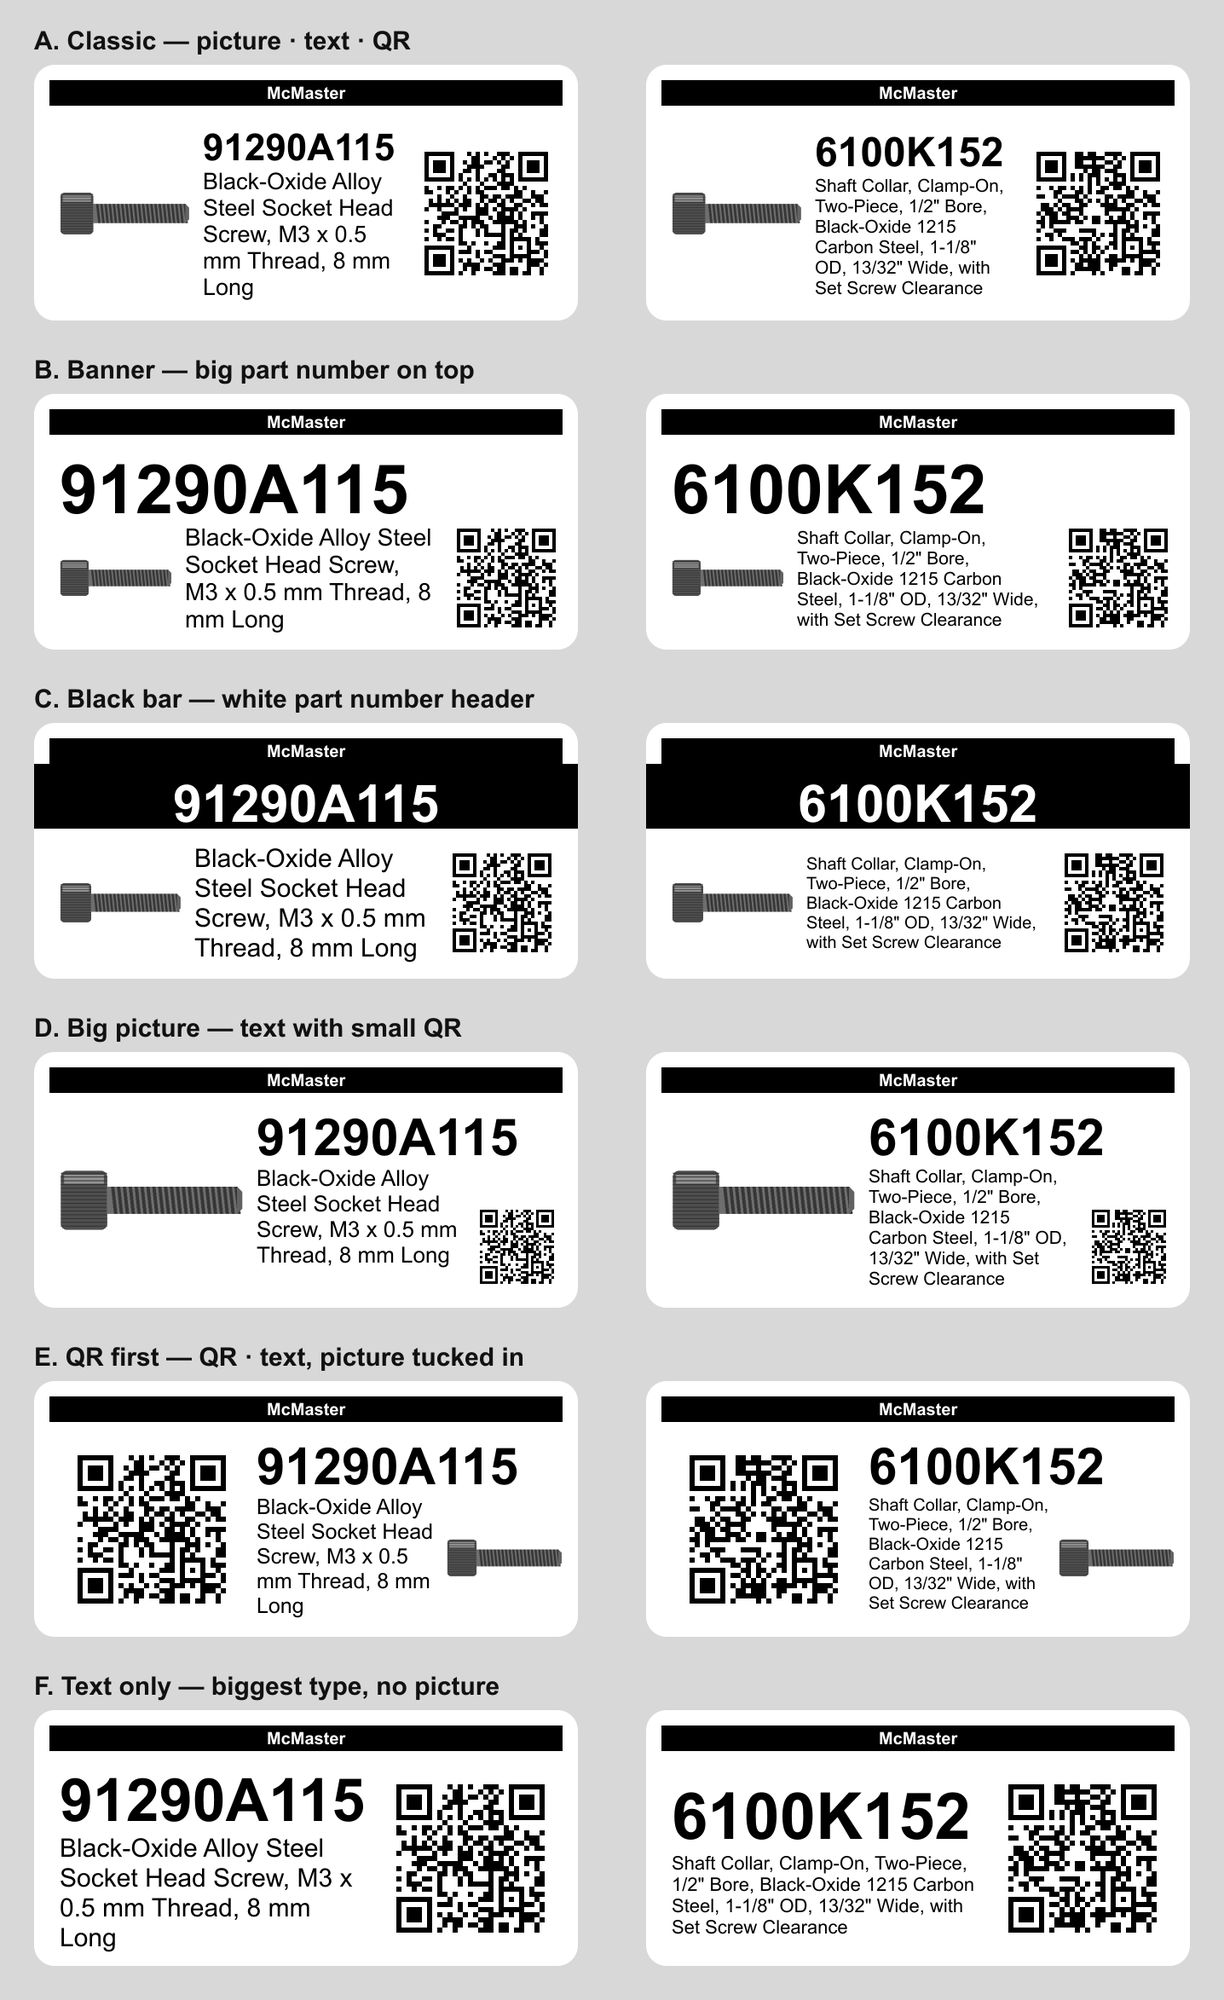
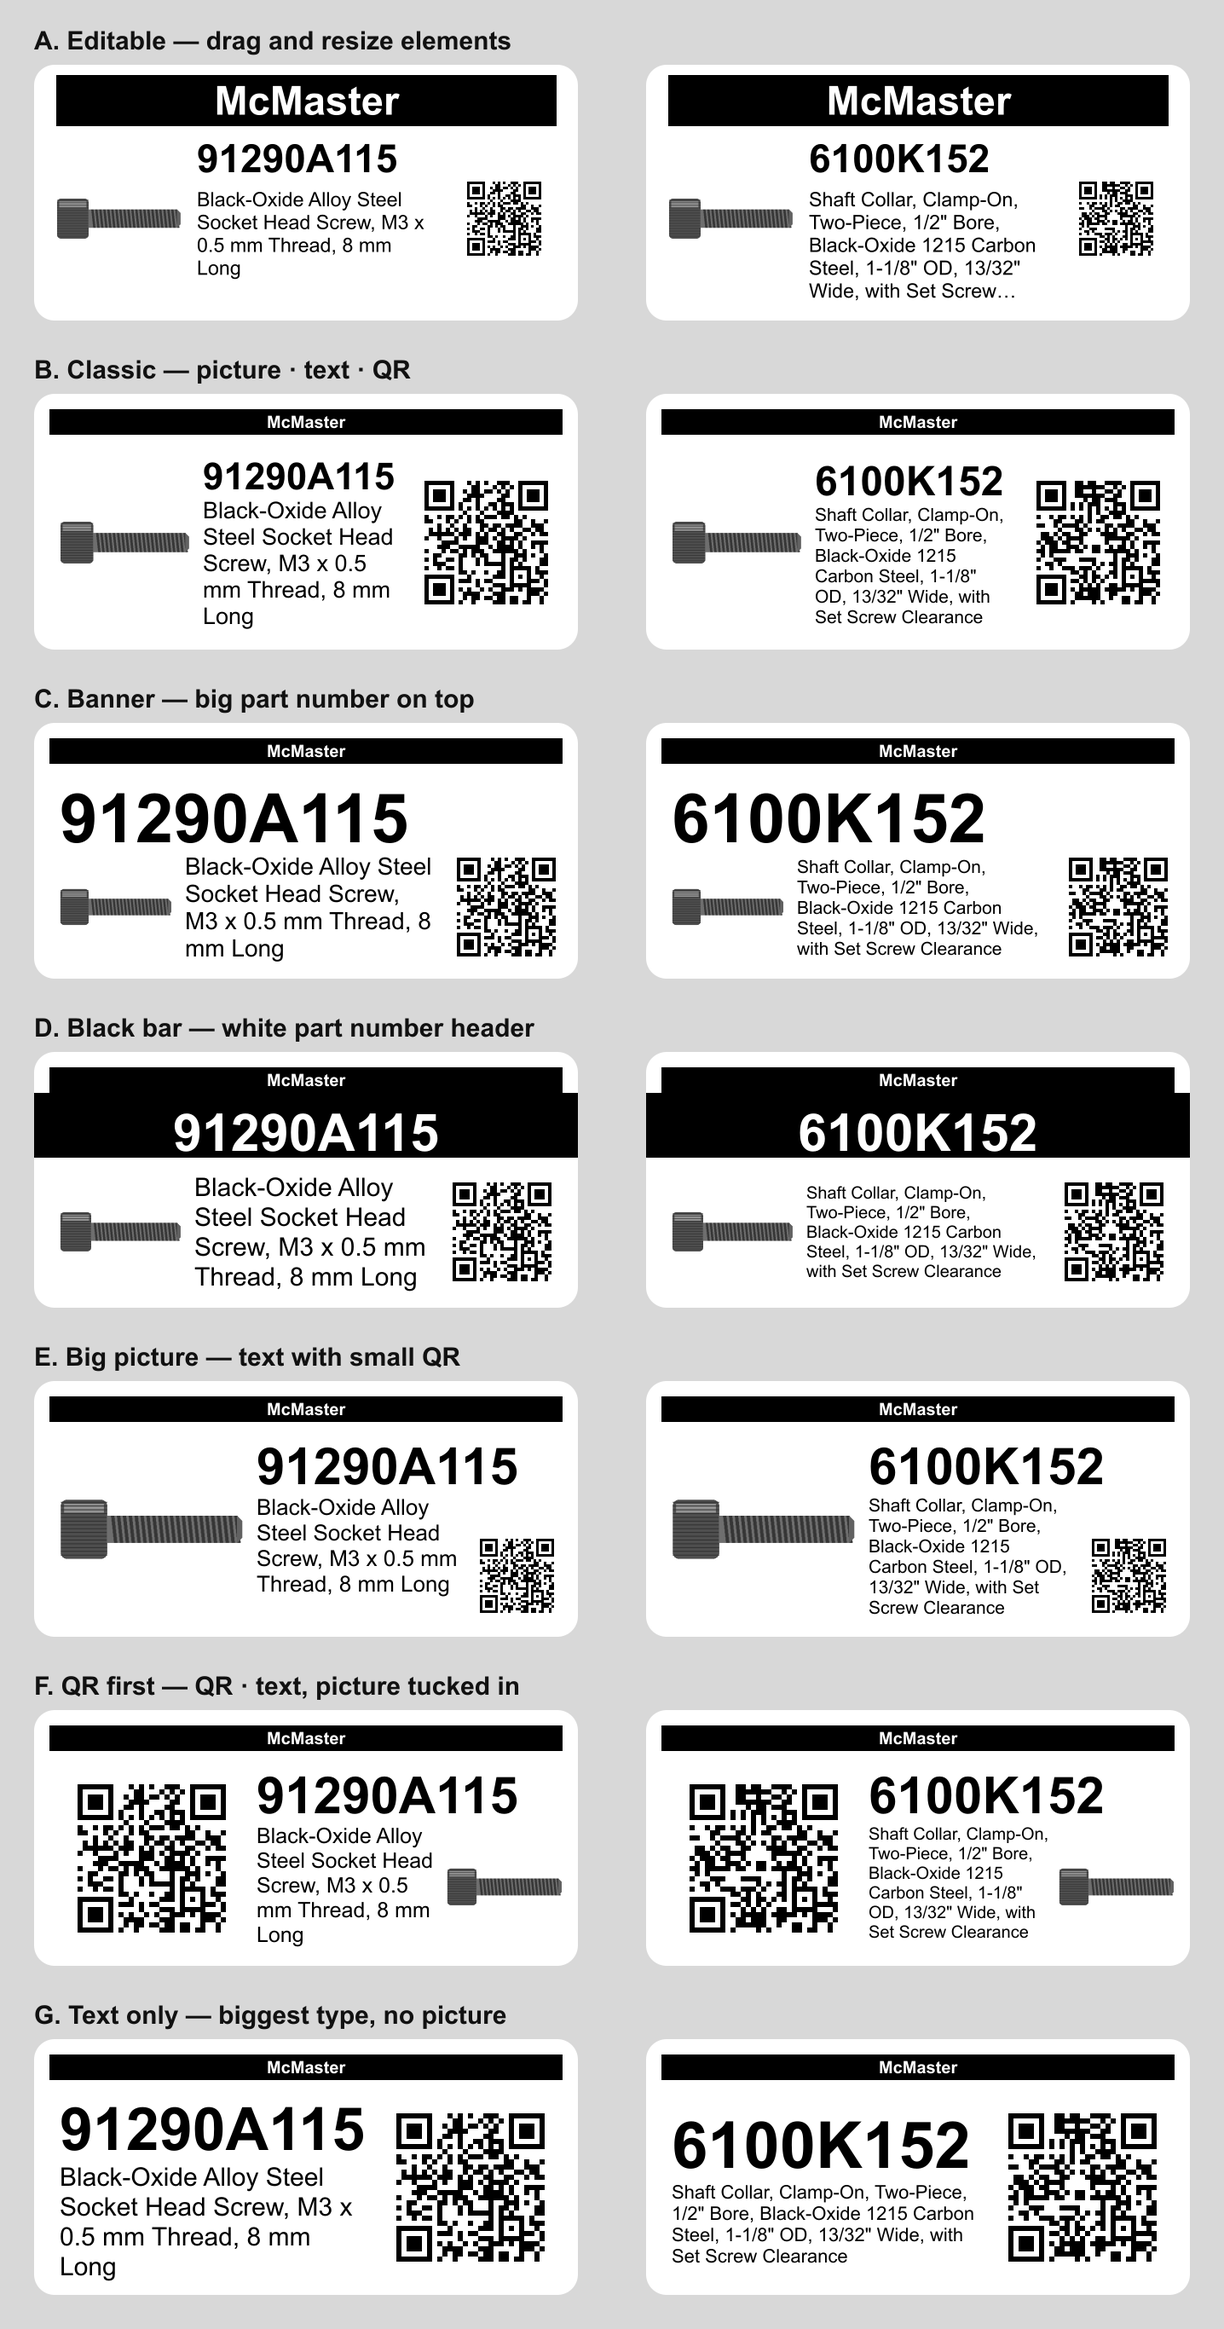
Add draggable and resizable label elements with saved designs

diff --git a/extension/popup.js b/extension/popup.js
@@ -8,6 +8,65 @@ let imgIndex = 0;
 let attributeSelections = [];
 let adPreferences = {};
 let imagePreference = true;
+let savedDesigns = {};
+let selectedElement = 'company';
+const ELEMENT_NAMES = { company: 'Company banner', partNumber: 'Part number', description: 'Description', image: 'Picture', qr: 'QR code' };
+function currentElements() { return McmLabel.editorElements(savedDesigns[$('size').value]); }
+function saveDesign(elements) {
+  savedDesigns[$('size').value] = McmLabel.editorElements(elements);
+  chrome.storage.local.set({ labelDesigns: savedDesigns });
+}
+function enableEditor() {
+  $('layout').value = 'editable';
+  $('elementControls').hidden = false;
+}
+function editorWarning() {
+  const elements = currentElements(), keys = Object.keys(elements).filter(k => k !== 'image' || imageIfOn());
+  const overlaps = keys.some((a,i) => keys.slice(i+1).some(b => {
+    const x=elements[a], y=elements[b];
+    return x.x < y.x+y.w && x.x+x.w > y.x && x.y < y.y+y.h && x.y+x.h > y.y;
+  }));
+  $('editorHint').textContent = overlaps ? 'Some elements overlap. Drag them apart before printing.' : 'Drag any element in the preview. Resize the selected element below. Check the QR code before printing.';
+}
+function updateEditorControls() {
+  const e = currentElements()[selectedElement], d = McmLabel.ELEMENT_DEFAULTS[selectedElement];
+  $('elementSelect').value = selectedElement;
+  $('elementScale').value = Math.round((e.scale || 1) * 100);
+  $('elementPercent').textContent = $('elementScale').value + '%';
+}
+function initEditor() {
+  for (const [key,name] of Object.entries(ELEMENT_NAMES)) $('elementSelect').add(new Option(name,key));
+  $('elementSelect').addEventListener('change', () => { enableEditor(); selectedElement=$('elementSelect').value; updateEditorControls(); refreshPreview(); saveSettings(); });
+  $('elementScale').addEventListener('input', () => {
+    enableEditor(); const elements=currentElements(), e=elements[selectedElement], d=McmLabel.ELEMENT_DEFAULTS[selectedElement];
+    const factor=Number($('elementScale').value)/100;
+    const cx=e.x+e.w/2, cy=e.y+e.h/2;
+    e.scale=factor; e.w=d.w*factor; e.h=d.h*factor; e.x=cx-e.w/2; e.y=cy-e.h/2;
+    saveDesign(elements); refreshPreview(); updateEditorControls(); saveSettings();
+  });
+  $('resetDesign').addEventListener('click', () => { enableEditor(); saveDesign({}); updateEditorControls(); refreshPreview(); saveSettings(); });
+  const canvas=$('preview'); let drag=null;
+  const point=event=>{ const r=canvas.getBoundingClientRect(); return {x:(event.clientX-r.left)/r.width,y:(event.clientY-r.top)/r.height}; };
+  canvas.addEventListener('pointerdown', event => {
+    if ($('layout').value !== 'editable') return;
+    const p=point(event), elements=currentElements();
+    // Small boxes win when two overlap, so they can still be selected.
+    const hit=Object.keys(elements).filter(k=>k!=='image'||imageIfOn()).sort((a,b)=>elements[a].w*elements[a].h-elements[b].w*elements[b].h).find(k=>{const e=elements[k];return p.x>=e.x&&p.x<=e.x+e.w&&p.y>=e.y&&p.y<=e.y+e.h;});
+    if (!hit) return;
+    event.preventDefault(); selectedElement=hit;
+    drag={start:p,original:{...elements[hit]}};canvas.setPointerCapture(event.pointerId);updateEditorControls();refreshPreview();
+  });
+  canvas.addEventListener('pointermove', event => {
+    if(!drag) return; const p=point(event), elements=currentElements();
+    elements[selectedElement]={...drag.original,x:drag.original.x+p.x-drag.start.x,y:drag.original.y+p.y-drag.start.y};
+    // Keep the draft in memory while dragging; persist once released.
+    savedDesigns[$('size').value]=McmLabel.editorElements(elements);refreshPreview();
+  });
+  const finish=()=>{if(drag){saveDesign(currentElements());drag=null;}};
+  canvas.addEventListener('pointerup',finish);canvas.addEventListener('pointercancel',finish);
+  updateEditorControls();
+}
+
 
 
 async function loadImageAt(p, i) {
@@ -43,7 +102,7 @@ function imageIfOn() {
 function renderFull() {
   const s = currentSize();
   return McmLabel.renderLabel(currentPart(), {
-    widthIn: s.width, heightIn: s.height, padIn: 0.06, leftPadIn: 0.1, image: imageIfOn(), layout: $("layout").value
+    widthIn: s.width, heightIn: s.height, padIn: 0.06, leftPadIn: 0.1, image: imageIfOn(), layout: $("layout").value, elements: currentElements()
   });
 }
 
@@ -52,8 +111,15 @@ function refreshPreview() {
   const pv = $("preview");
   pv.width = src.width; pv.height = src.height;
   pv.getContext("2d").drawImage(src, 0, 0);
+  if ($('layout').value === 'editable') {
+    const e=currentElements()[selectedElement], ctx=pv.getContext('2d');
+    ctx.save();ctx.strokeStyle='#1671d9';ctx.lineWidth=Math.max(2,src.width/300);ctx.setLineDash([8,5]);
+    ctx.strokeRect(e.x*src.width,e.y*src.height,e.w*src.width,e.h*src.height);ctx.restore();
+  }
+  $('elementControls').hidden = $('layout').value !== 'editable';
+  editorWarning();
   const size = currentSize();
-  $("previewSize").textContent = `${size.width} × ${size.height} inches · landscape`;
+  $('previewSize').textContent = `${size.width} × ${size.height} inches · landscape`;
 }
 
 function setStatus(html, isErr = false) {
@@ -107,7 +173,7 @@ async function onPrint() {
     const printer = $("printer").value;
     const result = await McmPrinting.create({ label: McmLabel, dymo: Dymo, chrome }).print(printer, {
       part: currentPart(), size: currentSize(), image: imageIfOn(),
-      layout: $("layout").value, copies: +$("copies").value || 1
+      layout: $("layout").value, elements: currentElements(), copies: +$("copies").value || 1
     });
     $("status").textContent = result.backend === "dymo" ? "Sent to DYMO ✓" : "Choose your printer in the print dialog.";
   } catch (e) {
@@ -121,13 +187,15 @@ async function init() {
   for (const [k, v] of Object.entries(McmLabel.LABEL_SIZES)) sizeSel.add(new Option(v.name, k));
   for (const [k, v] of Object.entries(McmLabel.LAYOUTS)) $("layout").add(new Option(v.name, k));
 
-  const settings = await chrome.storage.sync.get({ size: "30336", layout: "classic", printer: "", copies: 1, showImage: true });
+  const settings = await chrome.storage.sync.get({ size: "30336", layout: "editable", printer: "", copies: 1, showImage: true });
   sizeSel.value = settings.size;
   $("layout").value = McmLabel.LAYOUTS[settings.layout] ? settings.layout : "classic";
   $("copies").value = settings.copies;
   $("showImage").checked = settings.showImage;
   imagePreference = settings.showImage;
 
+  savedDesigns = (await chrome.storage.local.get({ labelDesigns: {} })).labelDesigns;
+  initEditor();
   adPreferences = (await chrome.storage.local.get({ adSelections: {} })).adSelections;
   $("adLookup").addEventListener("submit", lookupProduct);
   const [tab] = await chrome.tabs.query({ active: true, currentWindow: true });
@@ -164,8 +232,10 @@ async function init() {
   $("imgCount").textContent = `1/${partImages.length}`;
   refreshPreview();
 
+  $('customize').addEventListener('click', () => { enableEditor(); updateEditorControls(); refreshPreview(); saveSettings(); });
   for (const id of ["desc", "size", "layout", "showImage"]) $(id).addEventListener("input", refreshPreview);
   $("size").addEventListener("change", () => {
+    updateEditorControls();
     if (!currentSize().dymo) $("printer").value = BROWSER;
     refreshPreview();
     saveSettings();

diff --git a/extension/label.js b/extension/label.js
@@ -184,7 +184,76 @@
     return s;
   }
 
+
+  // Editable element boxes use fractions of the label so preview and print agree.
+  const ELEMENT_DEFAULTS = {
+    company: { x: .04, y: .04, w: .92, h: .20 },
+    partNumber: { x: .30, y: .28, w: .43, h: .18 },
+    description: { x: .30, y: .48, w: .43, h: .46 },
+    image: { x: .04, y: .30, w: .23, h: .60 },
+    qr: { x: .77, y: .30, w: .19, h: .60 }
+  };
+  function editorElements(value = {}) {
+    const out = {};
+    for (const [key, defaults] of Object.entries(ELEMENT_DEFAULTS)) {
+      const e = { ...defaults, ...value[key] };
+      const number = (n, fallback) => Number.isFinite(Number(n)) ? Number(n) : fallback;
+      e.scale = Math.max(.4, Math.min(2.5, number(e.scale, 1)));
+      e.w = Math.max(.04, Math.min(.96, number(e.w, defaults.w)));
+      e.h = Math.max(.04, Math.min(.96, number(e.h, defaults.h)));
+      e.x = Math.max(.02, Math.min(.98 - e.w, number(e.x, defaults.x)));
+      e.y = Math.max(.02, Math.min(.98 - e.h, number(e.y, defaults.y)));
+      out[key] = e;
+    }
+    return out;
+  }
+  function companyName(part) {
+    let host = '';
+    try { host = new URL(part.url).hostname; } catch (_) {}
+    if (/^(www\.)?automationdirect\.com$/i.test(host)) return 'Automation Direct';
+    if (/^([a-z0-9-]+\.)*mcmaster\.com$/i.test(host)) return 'McMaster';
+    return '';
+  }
+  function drawEditable(ctx, part, opts, W, H, makeCanvas, qrLib) {
+    const elements = editorElements(opts.elements);
+    for (const [key, e] of Object.entries(elements)) {
+      const x = Math.round(e.x * W), y = Math.round(e.y * H);
+      const w = Math.round(e.w * W), h = Math.round(e.h * H);
+      ctx.save(); ctx.beginPath(); ctx.rect(x, y, w, h); ctx.clip();
+      if (key === 'company') {
+        const name = companyName(part);
+        if (name) {
+          ctx.fillStyle = '#000'; ctx.fillRect(x, y, w, h);
+          let size = Math.max(8, Math.round(h * .78));
+          ctx.font = 'bold ' + size + 'px ' + FONT;
+          while (size > 8 && ctx.measureText(name).width > w * .94) ctx.font = 'bold ' + (--size) + 'px ' + FONT;
+          ctx.fillStyle = '#fff'; ctx.textAlign = 'center'; ctx.textBaseline = 'middle';
+          ctx.fillText(name, x + w / 2, y + h / 2);
+        }
+      } else if (key === 'image') {
+        if (opts.image) drawPartImage(ctx, opts.image, x, y, w, h, makeCanvas);
+      } else if (key === 'qr') {
+        if (part.url) { const side = Math.min(w, h); drawQR(ctx, qrLib, part.url, x + (w - side) / 2, y + (h - side) / 2, side); }
+      } else if (key === 'partNumber') {
+        ctx.fillStyle = '#000'; ctx.textBaseline = 'top';
+        const size = fitBold(ctx, part.partNumber || '', w, h * .85);
+        ctx.fillText(part.partNumber || '', x, y);
+      } else {
+        // Fixed readable type: larger boxes enlarge text; overflow ends with ….
+        const size = Math.max(10, Math.min(h * .22, w * .085));
+        ctx.font = size + 'px ' + FONT; ctx.fillStyle = '#000'; ctx.textBaseline = 'top';
+        const lines = wrapText(ctx, part.description || '', w);
+        const count = Math.max(1, Math.floor(h / (size * 1.15)));
+        const visible = lines.slice(0, count);
+        if (lines.length > count) visible[count - 1] = ellipsize(ctx, visible[count - 1] + '…', w);
+        visible.forEach((line, i) => ctx.fillText(line, x, y + i * size * 1.15));
+      }
+      ctx.restore();
+    }
+  }
+
   const LAYOUTS = {
+    editable: { name: "Editable — drag and resize elements", draw() {} },
     // Picture | part number + description | QR
     classic: {
       name: "Classic — picture · text · QR",
@@ -322,6 +391,10 @@
     const ctx = canvas.getContext("2d");
     ctx.fillStyle = "#fff";
     ctx.fillRect(0, 0, W, H);
+    if (opts.layout === 'editable') {
+      drawEditable(ctx, part, opts, W, H, makeCanvas, qrLib);
+      return canvas;
+    }
     // Reserve physical space for the seller banner before drawing any layout.
     let company = '';
     let host = '';
@@ -406,7 +479,7 @@
 </DieCutLabel>`;
   }
 
-  const api = { DPI, LABEL_SIZES, LAYOUTS, renderLabel, dymoLabelXml, dymoBounds };
+  const api = { ELEMENT_DEFAULTS, editorElements, DPI, LABEL_SIZES, LAYOUTS, renderLabel, dymoLabelXml, dymoBounds };
   root.McmLabel = api;
   if (typeof module !== "undefined" && module.exports) module.exports = api;
 })(typeof window !== "undefined" ? window : globalThis);

diff --git a/test/label.test.js b/test/label.test.js
@@ -53,11 +53,20 @@ test('seller banner leaves QR readable for both companies in every layout and si
    const canvas=render({partNumber:'C0-00DD1-D',description:'24 VDC power supply',url},{size,layout});
    assert.equal(decodeQR(canvas),url,size+'/'+layout);
    const ctx=canvas.getContext('2d'),h=Math.round(Math.min(66,canvas.height*0.16));
-   const pixels=ctx.getImageData(25,20,canvas.width-50,h-21).data;
+   const box = layout === 'editable' ? {x:Math.round(canvas.width*.05),y:Math.round(canvas.height*.05),w:Math.round(canvas.width*.90),h:Math.round(canvas.height*.18)} : {x:25,y:20,w:canvas.width-50,h:h-21};
+   const pixels=ctx.getImageData(box.x,box.y,box.w,box.h).data;
    let black=0,white=0;
    for(let i=0;i<pixels.length;i+=4){if(pixels[i]<30)black++;if(pixels[i]>225)white++;}
    assert.ok(black>white,'banner has black background');
    assert.ok(white>0,'banner has white lettering');
   }
+ }
+});
+
+test('editable elements clamp invalid and off-label positions',()=>{
+ const elements=Label.editorElements({company:{x:NaN,y:-10,w:20,h:Infinity},qr:{x:2,y:2,w:.2,h:.2}});
+ for(const e of Object.values(elements)) {
+  assert.ok(e.x>=.02 && e.y>=.02);
+  assert.ok(e.x+e.w<=.981 && e.y+e.h<=.981);
  }
 });

diff --git a/extension/printing.js b/extension/printing.js
@@ -12,7 +12,7 @@
         const { size } = job;
         const canvas = label.renderLabel(job.part, {
           widthIn: size.width, heightIn: size.height, padIn: 0.06, leftPadIn: 0.1,
-          image: job.image, layout: job.layout
+          image: job.image, layout: job.layout, elements: job.elements
         });
         // Each tab owns its job, so concurrent print tabs cannot overwrite it.
         const id = root.crypto.randomUUID();
@@ -29,7 +29,7 @@
         const bounds = label.dymoBounds(job.size);
         const canvas = label.renderLabel(job.part, {
           widthIn: bounds.w / 1440, heightIn: bounds.h / 1440,
-          padIn: 0.02, image: job.image, layout: job.layout
+          padIn: 0.02, image: job.image, layout: job.layout, elements: job.elements
         });
         const xml = label.dymoLabelXml(job.size, canvas.toDataURL("image/png").split(",")[1]);
         await dymo.printLabel(printer, xml, job.copies);

diff --git a/extension/popup.html b/extension/popup.html
@@ -31,6 +31,15 @@
     </fieldset>
     <div class="preview-wrap"><canvas id="preview"></canvas></div>
     <div id="previewSize" class="preview-size"></div>
+    <button id="customize" type="button">Customize — drag and resize</button>
+    <fieldset id="elementControls" hidden>
+      <legend>Element size and position</legend>
+      <label class="field">Element<select id="elementSelect"></select></label>
+      <label class="field" for="elementScale">Size <output id="elementPercent">100%</output></label>
+      <input id="elementScale" type="range" min="40" max="250" step="5" value="100">
+      <button id="resetDesign" type="button">Reset arrangement</button>
+      <p id="editorHint"></p>
+    </fieldset>
 
     <label class="field">
       <span id="descLabel">Description</span>

diff --git a/test/printing.test.js b/test/printing.test.js
@@ -53,3 +53,13 @@ test('DYMO submission errors propagate without a browser retry', async () => {
   await assert.rejects(service.print('DYMO', { ...job, size: { ...job.size, dymo: {} } }), /Service timeout/);
   assert.equal(opened, false);
 });
+
+test('both print backends pass editable element geometry to the renderer',async()=>{
+ for(const printer of [Printing.BROWSER,'DYMO']) {
+  const {service,calls}=fixture();
+  const elements={company:{x:.1,y:.1,w:.8,h:.2}};
+  await service.print(printer,{...job,layout:'editable',elements,size:{...job.size,dymo:{}}});
+  assert.deepEqual(calls[0][1].elements,elements);
+  assert.equal(calls[0][1].layout,'editable');
+ }
+});

diff --git a/extension/popup.css b/extension/popup.css
@@ -45,3 +45,7 @@ code { font-size: 12px; }
 #attributes { max-height: 190px; overflow-y: auto; }
 #attributes label { display: block; margin: 6px 0; }
 #lookupStatus { overflow-wrap: anywhere; }
+
+#preview { touch-action: none; cursor: move; }
+#elementScale { width: 100%; }
+#editorHint { font-size: 11px; color: var(--muted); }

diff --git a/README.md b/README.md
@@ -75,3 +75,7 @@ by Kazuhiko Arase (MIT), vendored at `extension/lib/qrcode.js`.
 Open an AutomationDirect product detail page and click the extension, just like McMaster-Carr. The popup automatically reads the open page and waits up to 15 seconds for its attribute table. No part number or URL entry is required. An optional collapsed lookup section accepts McMaster-Carr and AutomationDirect product URLs. The input starts empty; AutomationDirect part numbers are also accepted. Lookup temporarily opens a background tab while the live product attribute table loads (up to 25 seconds). Keep the popup open during lookup. Select attributes to replace the description in both preview and printing. Defaults select up to three identifying attributes; selections, including none, are remembered locally for the last 50 products. The editable description remains available for McMaster. Long label text shrinks and then ends with an ellipsis: review the preview or choose fewer attributes/a larger label.
 
 Verified against the rendered C0-00DD1-D (28 attributes) and C0-02DD1-D (43 attributes) product tables on October 16, 2026. Website changes, unavailable products, network restrictions, or access challenges can prevent lookup; these produce an error instead of inventing specifications. No physical printer verification was performed for this integration.
+
+## Customize labels
+
+Click **Customize — drag and resize** to use the editable layout. Drag the company banner, part number, description, picture, or QR code within the preview. Select an element and move its Size slider to enlarge or shrink it. Arrangements are saved locally per label size; Reset arrangement restores the defaults. The blue selection outline is only a preview guide and does not print. Overlap warnings help you check the design; verify QR readability after resizing. Preset layouts remain available in the Layout menu.
